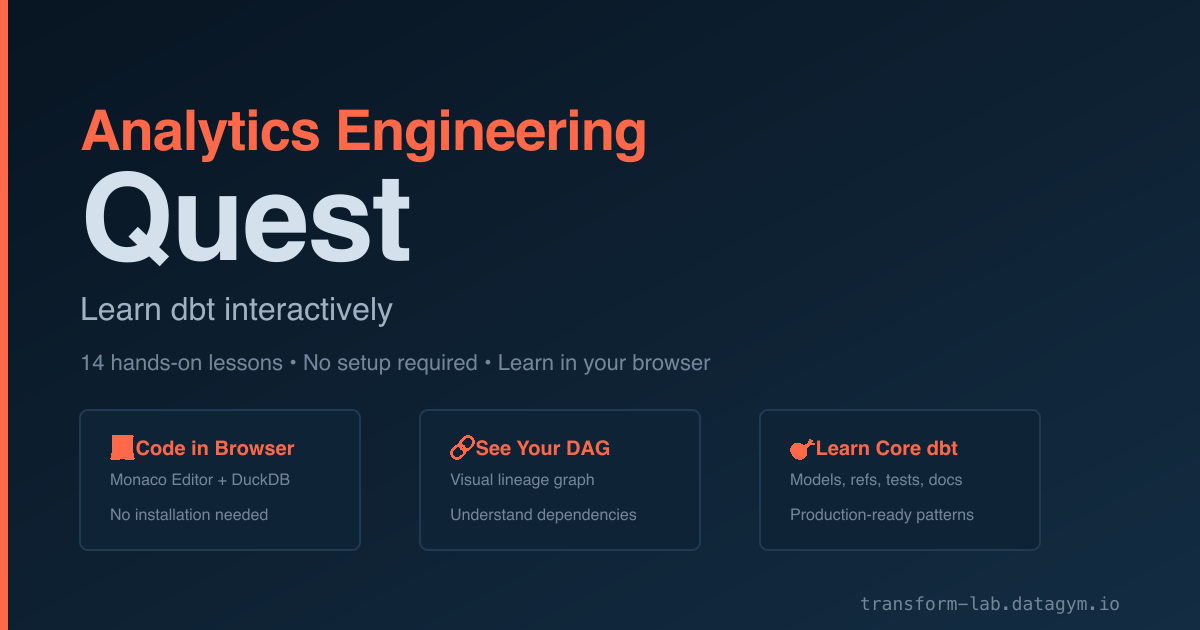
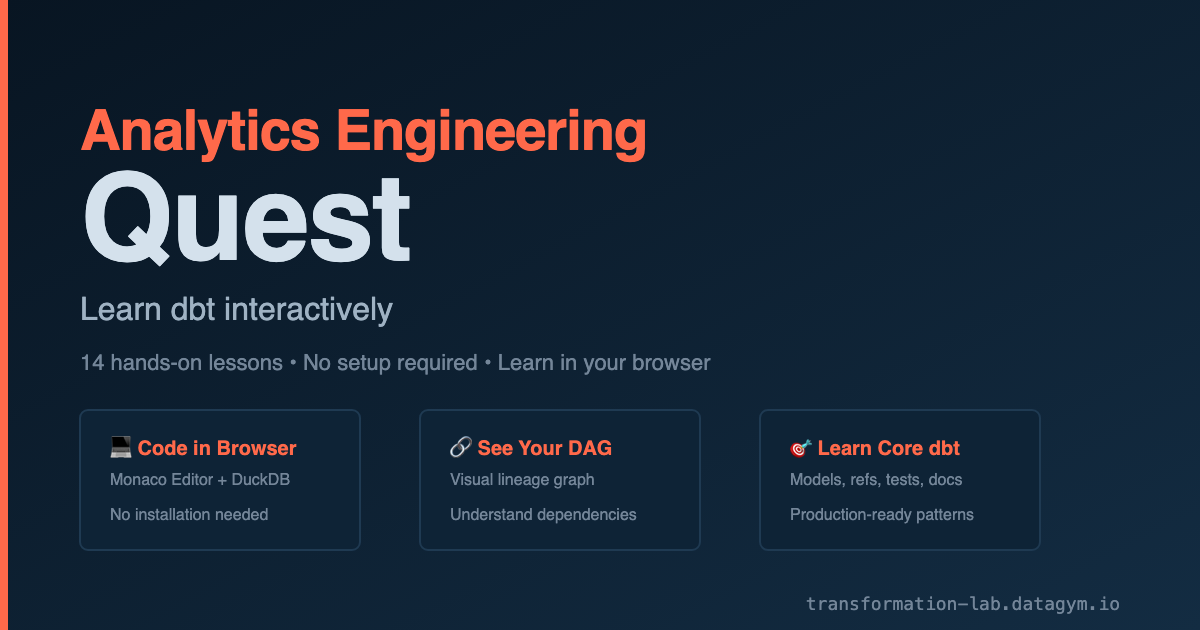
Rename canonical domain to transformation-lab.datagym.io
Align the lab's subdomain with the `{topic-or-activity}-lab` family
on DataGym.io (matches `modeling-lab`, `sql-lab`). Updates canonical
URL, OG/Twitter metadata, JSON-LD, sitemap, robots.txt, security.txt,
IndexNow workflow, GitHub footer/header links, and regenerates the
OG PNG. See datagym DECISIONS.md 2026-05-24 for the full reasoning.

diff --git a/index.html b/index.html
@@ -14,8 +14,8 @@
     <meta property="og:title" content="Learn dbt Free: 14 Interactive Lessons" />
     <meta property="og:description" content="Master dbt and data transformation pipelines with hands-on lessons. No setup, completely free, learn at your own pace." />
     <meta property="og:type" content="website" />
-    <meta property="og:url" content="https://transform-lab.datagym.io" />
-    <meta property="og:image" content="https://transform-lab.datagym.io/og-image.svg" />
+    <meta property="og:url" content="https://transformation-lab.datagym.io" />
+    <meta property="og:image" content="https://transformation-lab.datagym.io/og-image.svg" />
     <meta property="og:image:width" content="1200" />
     <meta property="og:image:height" content="630" />
     <meta property="og:image:alt" content="Analytics Engineering Quest — learn dbt with lesson preview" />
@@ -25,12 +25,12 @@
     <meta name="twitter:card" content="summary_large_image" />
     <meta name="twitter:title" content="Learn dbt Free: Interactive Hands-On Tutorial" />
     <meta name="twitter:description" content="Master dbt and data transformation pipelines with 14 free interactive lessons. No setup required, learn at your own pace." />
-    <meta name="twitter:image" content="https://transform-lab.datagym.io/og-image.svg" />
+    <meta name="twitter:image" content="https://transformation-lab.datagym.io/og-image.svg" />
     <meta name="twitter:image:alt" content="Analytics Engineering Quest — learn dbt" />
     <meta name="twitter:creator" content="@brunoszdl" />
 
     <!-- Search engine optimization -->
-    <link rel="canonical" href="https://transform-lab.datagym.io/" />
+    <link rel="canonical" href="https://transformation-lab.datagym.io/" />
     <meta name="robots" content="index, follow" />
     <meta name="language" content="English" />
 
@@ -48,7 +48,7 @@
       "@type": "EducationalWebApplication",
       "name": "Analytics Engineering Quest - Learn dbt Free",
       "description": "Interactive browser tutorial for learning dbt with 14 hands-on lessons. Master data transformation pipelines and SQL modeling.",
-      "url": "https://transform-lab.datagym.io",
+      "url": "https://transformation-lab.datagym.io",
       "applicationCategory": "EducationalApplication",
       "keywords": "learn dbt, dbt tutorial, dbt course, analytics engineering, data transformation, SQL modeling",
       "creator": {
@@ -59,7 +59,7 @@
       "inLanguage": ["en", "pt", "es", "fr", "de", "it"],
       "potentialAction": {
         "@type": "PlayAction",
-        "target": "https://transform-lab.datagym.io"
+        "target": "https://transformation-lab.datagym.io"
       }
     }
     </script>

diff --git a/src/components/CourseComplete.tsx b/src/components/CourseComplete.tsx
@@ -22,7 +22,7 @@ export default function CourseComplete() {
   })
 
   const loadLesson = useGameStore((s) => s.loadLesson)
-  const linkedInUrl = `https://www.linkedin.com/sharing/share-offsite/?url=${encodeURIComponent('https://transform-lab.datagym.io')}`
+  const linkedInUrl = `https://www.linkedin.com/sharing/share-offsite/?url=${encodeURIComponent('https://transformation-lab.datagym.io')}`
 
   return (
     <div

diff --git a/src/components/Header.tsx b/src/components/Header.tsx
@@ -61,7 +61,7 @@ export default function Header() {
         <LangToggleButton />
         <ThemeToggleButton />
         <ExternalIconLink
-          href="https://github.com/bruno-szdl/transform-lab"
+          href="https://github.com/bruno-szdl/transformation-lab"
           label={t('header.githubLabel')}
         >
           <GitHubIcon />

diff --git a/src/components/IntroPage.tsx b/src/components/IntroPage.tsx
@@ -237,7 +237,7 @@ function Footer() {
       <div>
         {t('intro.footer.builtBy')}
         {' · '}
-        <FooterLink href="https://github.com/bruno-szdl/transform-lab">GitHub</FooterLink>
+        <FooterLink href="https://github.com/bruno-szdl/transformation-lab">GitHub</FooterLink>
         {' · '}
         <FooterLink href="https://www.linkedin.com/in/brunoszdl">LinkedIn</FooterLink>
         {' · '}

diff --git a/src/components/PrivacyPage.tsx b/src/components/PrivacyPage.tsx
@@ -83,7 +83,7 @@ export default function PrivacyPage() {
           <p style={{ lineHeight: 1.6 }}>
             {t('privacy.contact.text')}{' '}
             <a
-              href="https://github.com/bruno-szdl/transform-lab/issues"
+              href="https://github.com/bruno-szdl/transformation-lab/issues"
               target="_blank"
               rel="noopener noreferrer"
               style={{ color: 'var(--color-accent-orange)', textDecoration: 'underline' }}

diff --git a/docs/seo-setup.md b/docs/seo-setup.md
@@ -11,7 +11,7 @@ The main HTML file includes:
 - **Title**: "Learn dbt Free — Interactive Tutorial & Hands-On Lessons"
 - **Description**: Concise summary of what Analytics Engineering Quest is
 - **Keywords**: `dbt, data, SQL, analytics, tutorial, learning, interactive, game, data engineering`
-- **Canonical URL**: `https://transform-lab.datagym.io/`
+- **Canonical URL**: `https://transformation-lab.datagym.io/`
 - **Author**: Bruno Szdl
 
 ### 2. Open Graph Tags (Social Sharing)
@@ -22,7 +22,7 @@ When you share the site on Twitter, LinkedIn, Facebook, Slack, etc., these tags 
 - **og:description**: Brief description for social preview
 - **og:image**: `/og-image.svg` (or `/og-image.png` after conversion)
 - **og:type**: `website`
-- **og:url**: `https://transform-lab.datagym.io`
+- **og:url**: `https://transformation-lab.datagym.io`
 
 **How to test**: Use [Open Graph Debugger](https://www.opengraph.xyz/) or Twitter's [Card Validator](https://cards-dev.twitter.com/validator).
 
@@ -70,7 +70,7 @@ In `<head>`, there's a JSON-LD block defining the site as an `EducationalWebAppl
   "@type": "EducationalWebApplication",
   "name": "Analytics Engineering Quest",
   "description": "...",
-  "url": "https://transform-lab.datagym.io",
+  "url": "https://transformation-lab.datagym.io",
   "inLanguage": ["en", "pt", "es"],
   "creator": { "@type": "Person", "name": "Bruno Szdl" }
 }
@@ -141,11 +141,11 @@ Cons:
 
 3. **Update `index.html`**:
    ```html
-   <meta property="og:image" content="https://transform-lab.datagym.io/og-image.png" />
+   <meta property="og:image" content="https://transformation-lab.datagym.io/og-image.png" />
    ```
 
 4. **Test the result**:
-   - Use [Open Graph Debugger](https://www.opengraph.xyz/?url=https://transform-lab.datagym.io)
+   - Use [Open Graph Debugger](https://www.opengraph.xyz/?url=https://transformation-lab.datagym.io)
    - Share the link on Twitter / LinkedIn
    - Verify the preview shows the correct image
 
@@ -200,7 +200,7 @@ After publishing changes to:
 ```xml
 <!-- After updating Lesson 5 on 2026-06-01: -->
 <url>
-  <loc>https://transform-lab.datagym.io/#/lesson/5</loc>
+  <loc>https://transformation-lab.datagym.io/#/lesson/5</loc>
   <lastmod>2026-06-01</lastmod>
   <!-- ... -->
 </url>
@@ -231,10 +231,10 @@ Keep it under 300 characters.
 - [ ] Convert og-image.svg to PNG (or keep as SVG)
 - [ ] Update `index.html` if you changed the og-image filename
 - [ ] Set `VITE_CF_ANALYTICS_TOKEN` in Vercel env vars (optional)
-- [ ] Test social preview with [OG Debugger](https://www.opengraph.xyz/?url=https://transform-lab.datagym.io)
-- [ ] Verify robots.txt is accessible: `https://transform-lab.datagym.io/robots.txt`
-- [ ] Verify sitemap.xml is accessible: `https://transform-lab.datagym.io/sitemap.xml`
-- [ ] Verify og-image is accessible: `https://transform-lab.datagym.io/og-image.png` (or .svg)
+- [ ] Test social preview with [OG Debugger](https://www.opengraph.xyz/?url=https://transformation-lab.datagym.io)
+- [ ] Verify robots.txt is accessible: `https://transformation-lab.datagym.io/robots.txt`
+- [ ] Verify sitemap.xml is accessible: `https://transformation-lab.datagym.io/sitemap.xml`
+- [ ] Verify og-image is accessible: `https://transformation-lab.datagym.io/og-image.png` (or .svg)
 - [ ] Submit sitemap to [Google Search Console](https://search.google.com/search-console)
 - [ ] Monitor coverage and performance in Search Console
 

diff --git a/docs/quick-reference.md b/docs/quick-reference.md
@@ -172,8 +172,8 @@ aeQuest = (window as any).__ZUSTAND_DEVTOOLS_CONTEXT__.store.getState()
 - [ ] Verify mobile layout
 - [ ] Test light/dark theme toggle
 - [ ] Check language selector (en/pt/es)
-- [ ] Verify robots.txt is served: https://transform-lab.datagym.io/robots.txt
-- [ ] Verify sitemap.xml is served: https://transform-lab.datagym.io/sitemap.xml
+- [ ] Verify robots.txt is served: https://transformation-lab.datagym.io/robots.txt
+- [ ] Verify sitemap.xml is served: https://transformation-lab.datagym.io/sitemap.xml
 - [ ] Test og:image preview: https://www.opengraph.xyz/
 - [ ] Deploy to Vercel: vercel deploy --prod
 - [ ] Submit sitemap to Google Search Console

diff --git a/README.md b/README.md
@@ -53,7 +53,7 @@ After finishing Analytics Engineering Quest you'll be ready to set up a real dbt
 
 ## Play Online
 
-Analytics Engineering Quest is live at [transform-lab.datagym.io](https://transform-lab.datagym.io). Start with Lesson 0 and progress through 15 lessons.
+Analytics Engineering Quest is live at [transformation-lab.datagym.io](https://transformation-lab.datagym.io). Start with Lesson 0 and progress through 15 lessons.
 
 ## Deployment
 